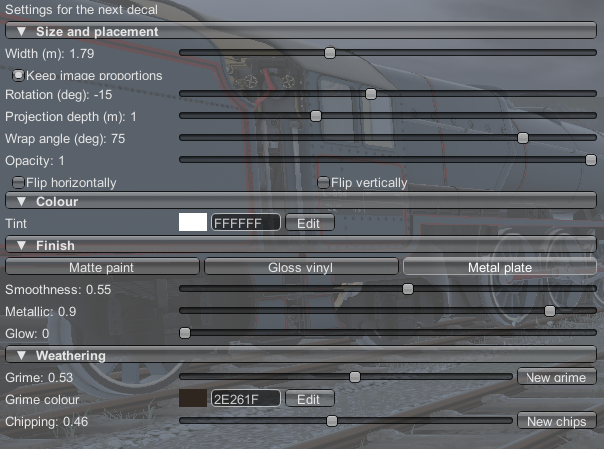
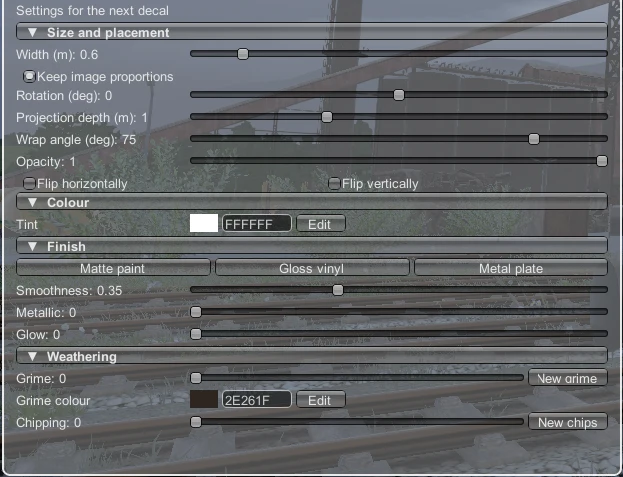
Retaken GUI screenshots; add colour picker and placing preview shots

diff --git a/README.md b/README.md
@@ -17,7 +17,7 @@ A Derail Valley mod for putting decals on locomotives, tenders and wagons: road 
 - **Layouts**: saved per car in your save, templates per livery, copy between cars, export/import for sharing, and a layout per paint scheme (including Skin Manager skins).
 - **Example decals included**: warning stripes, OSHA-style placards, voltage labels, fuel labels, access markings and DVRT-style logos.
 
-![The Decals window in the Edit tab, next to a tender with image and text decals](docs/images/gui-edit.png)
+![The Decals window in the Edit tab, with the selected logo pulsing on the tender](docs/images/gui-edit.png)
 
 | | |
 |---|---|

diff --git a/wiki/Placing-Decals.md b/wiki/Placing-Decals.md
@@ -25,7 +25,7 @@ Section headers with ▼/► (palette categories, *Size and placement*, *Colour*
 
 While placing, the panel shows an **Aiming at:** line and how many parts the preview is drawn on. It's mainly useful if the preview doesn't appear (see [FAQ](FAQ-and-Troubleshooting.md)).
 
-![Placing a text decal: the Aiming at line and the live preview on the tender](../docs/images/gui-place-text.png)
+![Placing mode: the Aiming at line in the panel and the live preview on the tender](../docs/images/gui-placing-preview.png)
 
 ## Placement options
 These sit just above the palette:

diff --git a/wiki/Colour-Finish-and-Weathering.md b/wiki/Colour-Finish-and-Weathering.md
@@ -12,6 +12,8 @@ These sections appear under **Settings for the next decal** in the Place tab, an
 That's why some examples have a white "(tintable)" version.
 
 ### The colour picker
+![The colour picker open for a text colour](../docs/images/gui-colour-picker.png)
+
 Every colour field (tint, text colour, outline colour, grime colour) has:
 - a **swatch** showing the current colour;
 - a **hex box**: type a six-digit hex code like `EEE4C4`;

diff --git a/wiki/Text-and-Road-Numbers.md b/wiki/Text-and-Road-Numbers.md
@@ -1,6 +1,6 @@
 # Text and road numbers
 
-![The Place tab in Text mode](../docs/images/gui-place-text.png)
+![The Place tab in Text mode, with the text colour picker open and the rendered preview below](../docs/images/gui-place-text.png)
 
 Text decals let you type numbers, names and lettering without making an image first.
 

diff --git a/wiki/Editing-Decals.md b/wiki/Editing-Decals.md
@@ -1,6 +1,6 @@
 # Editing decals
 
-![The Edit tab with a decal selected and the colour picker open](../docs/images/gui-edit.png)
+![The Edit tab with the logo selected (it pulses blue on the tender)](../docs/images/gui-edit.png)
 
 Open the **Edit** tab to work on decals you've already placed.
 
